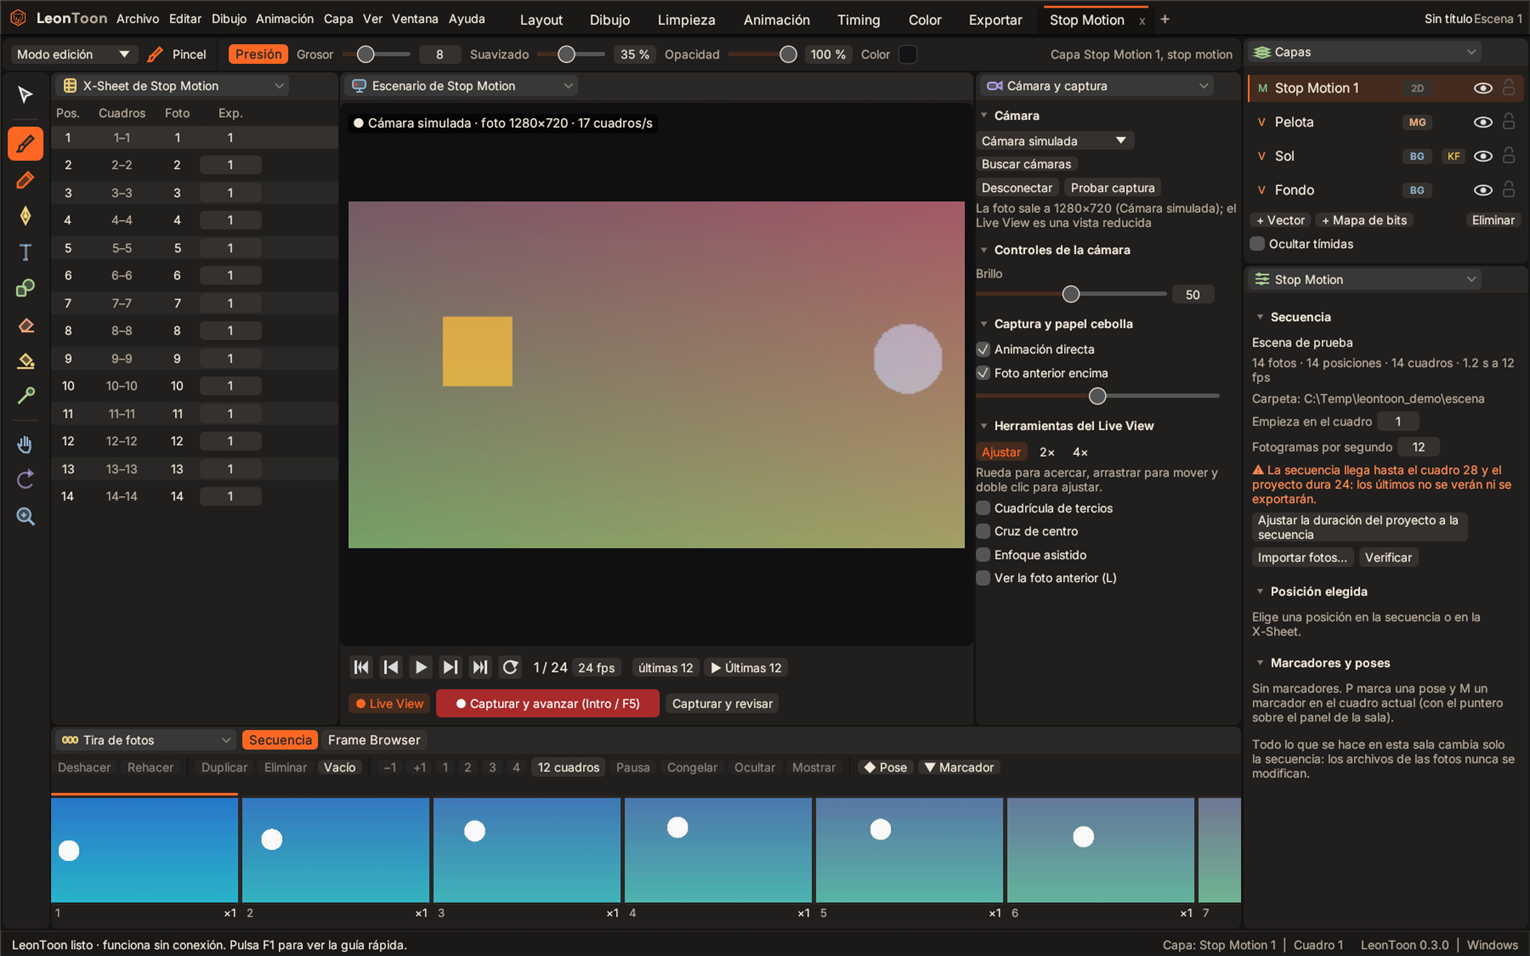
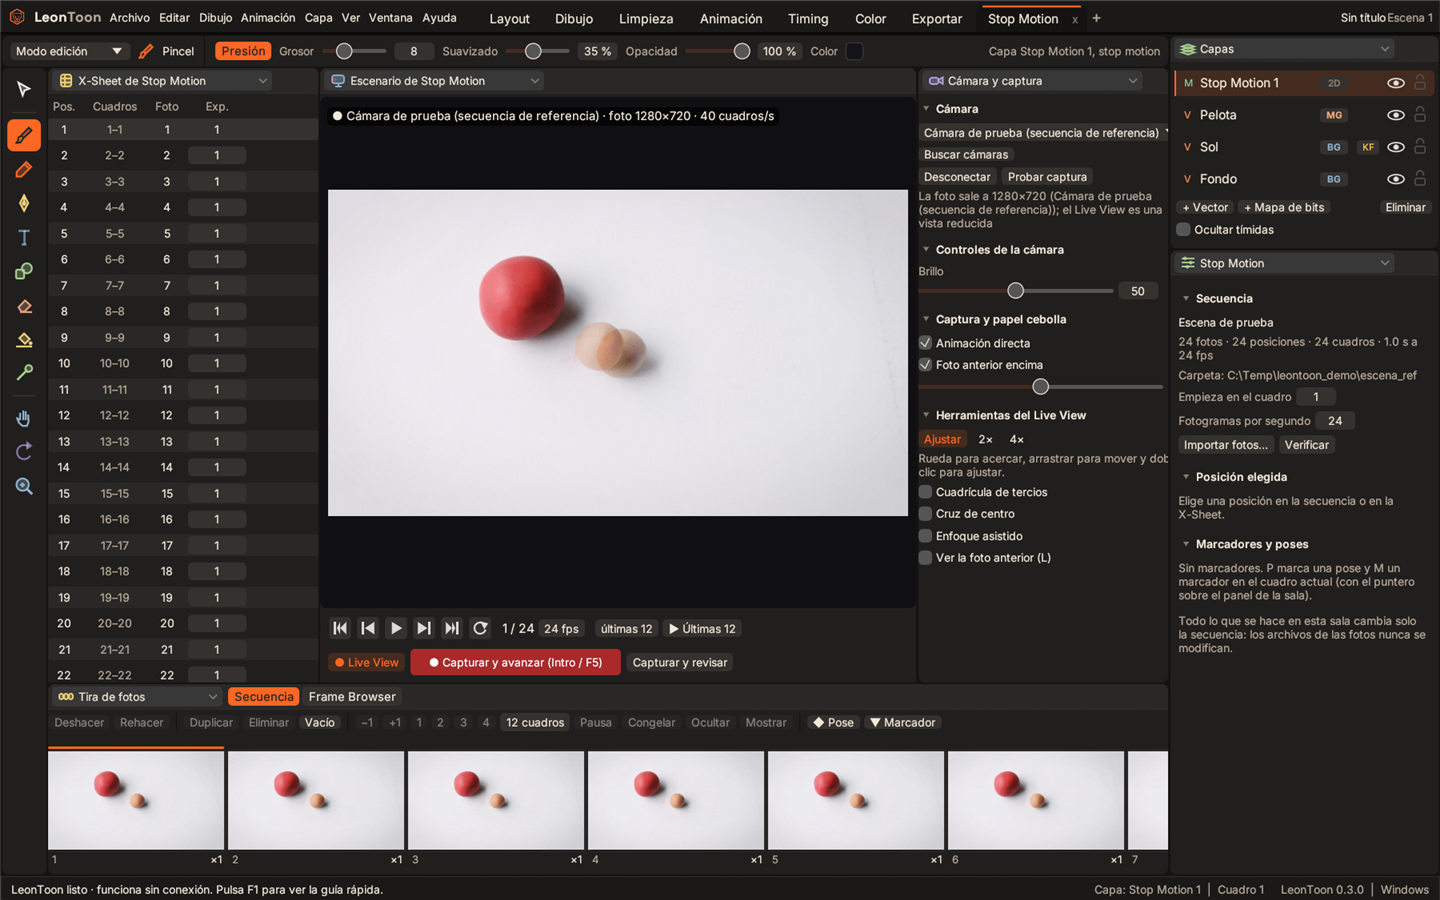
Stop Motion: camara de prueba con la secuencia de referencia (Refs #122) (#123)

diff --git a/app/src/capture/mock.rs b/app/src/capture/mock.rs
@@ -13,11 +13,13 @@ pub struct MockProvider {
     pub jpeg: bool,
     /// Si es false, el dispositivo no declara ningún control.
     pub with_controls: bool,
+    /// Carpeta con una secuencia de imágenes de referencia: la cámara las muestra en bucle (a 4 por segundo) en vez del degradado.
+    pub frames_dir: Option<std::path::PathBuf>,
 }
 
 impl Default for MockProvider {
     fn default() -> Self {
-        MockProvider { width: 1280, height: 720, fail_after: None, jpeg: true, with_controls: true }
+        MockProvider { width: 1280, height: 720, fail_after: None, jpeg: true, with_controls: true, frames_dir: None }
     }
 }
 
@@ -27,14 +29,21 @@ impl CaptureProvider for MockProvider {
     }
 
     fn list(&self) -> Result<Vec<DeviceInfo>, String> {
-        Ok(vec![DeviceInfo { id: "simulada:0".into(), name: "Cámara simulada".into(), provider: "simulada".into() }])
+        Ok(vec![DeviceInfo { id: "simulada:0".into(), name: if self.frames_dir.is_some() { "Cámara de prueba (secuencia de referencia)".into() } else { "Cámara simulada".into() }, provider: "simulada".into() }])
     }
 
     fn open(&self, id: &str) -> Result<Box<dyn CaptureDevice>, String> {
         if id != "simulada:0" {
             return Err(format!("no existe el dispositivo {id}"));
         }
-        Ok(Box::new(MockDevice { cfg: self.clone(), n: 0, brightness: 50 }))
+        let mut files: Vec<std::path::PathBuf> = self
+            .frames_dir
+            .as_ref()
+            .and_then(|d| std::fs::read_dir(d).ok())
+            .map(|rd| rd.filter_map(|e| e.ok()).map(|e| e.path()).filter(|p| p.extension().is_some_and(|x| x.eq_ignore_ascii_case("png") || x.eq_ignore_ascii_case("jpg"))).collect())
+            .unwrap_or_default();
+        files.sort();
+        Ok(Box::new(MockDevice { cfg: self.clone(), n: 0, brightness: 50, files, start: std::time::Instant::now() }))
     }
 }
 
@@ -42,6 +51,8 @@ struct MockDevice {
     cfg: MockProvider,
     n: u64,
     brightness: i64,
+    files: Vec<std::path::PathBuf>,
+    start: std::time::Instant,
 }
 
 impl CaptureDevice for MockDevice {
@@ -58,6 +69,20 @@ impl CaptureDevice for MockDevice {
         }
         std::thread::sleep(std::time::Duration::from_millis(8));
         self.n += 1;
+        if !self.files.is_empty() {
+            let i = (self.start.elapsed().as_millis() / 250) as usize % self.files.len();
+            let mut img = image::open(&self.files[i]).map_err(|e| e.to_string())?.to_rgb8();
+            let (w, h) = (img.width(), img.height());
+            let lum = (self.brightness as f32 / 50.0).clamp(0.0, 2.0);
+            if (lum - 1.0).abs() > 0.01 {
+                for p in img.pixels_mut() {
+                    for c in p.0.iter_mut() {
+                        *c = (*c as f32 * lum).min(255.0) as u8;
+                    }
+                }
+            }
+            return Ok(RawFrame { width: w, height: h, data: img.into_raw(), jpeg: false });
+        }
         let (w, h) = (self.cfg.width, self.cfg.height);
         let mut img = image::RgbImage::new(w, h);
         let lum = (self.brightness as f32 / 50.0).clamp(0.0, 2.0);

diff --git a/app/src/app.rs b/app/src/app.rs
@@ -593,8 +593,26 @@ impl LeonApp {
         // con LEONTOON_SMFALTA=1 la capa apunta a una carpeta que no existe (para ver el aviso).
         if let Ok(dir) = std::env::var("LEONTOON_STOPMOTION") {
             let dir = std::path::PathBuf::from(dir);
-            if let Ok(mut f) = crate::stopmotion::SeqFolder::create(&dir, "Escena de prueba", 12) {
-                for i in 0..14u32 {
+            // LEONTOON_SMFOTOS=<carpeta> usa esas imágenes (en orden) como fotos de la secuencia en vez de las generadas.
+            let refs: Vec<std::path::PathBuf> = std::env::var("LEONTOON_SMFOTOS")
+                .ok()
+                .and_then(|d| std::fs::read_dir(d).ok())
+                .map(|rd| {
+                    let mut v: Vec<_> = rd.filter_map(|e| e.ok()).map(|e| e.path()).filter(|p| p.extension().is_some_and(|x| x.eq_ignore_ascii_case("png") || x.eq_ignore_ascii_case("jpg"))).collect();
+                    v.sort();
+                    v
+                })
+                .unwrap_or_default();
+            if let Ok(mut f) = crate::stopmotion::SeqFolder::create(&dir, "Escena de prueba", if refs.is_empty() { 12 } else { 24 }) {
+                for p in refs.iter().take(24) {
+                    if let Ok(img) = image::open(p) {
+                        let mut bytes = Vec::new();
+                        if image::codecs::jpeg::JpegEncoder::new_with_quality(&mut bytes, 90).encode_image(&img.to_rgb8()).is_ok() {
+                            let _ = f.append_photo(&bytes, None);
+                        }
+                    }
+                }
+                for i in 0..(if refs.is_empty() { 14u32 } else { 0 }) {
                     // Una bola blanca que avanza de foto en foto sobre un fondo que cambia de color: se nota el movimiento.
                     let (cx, cy) = (30.0 + i as f32 * 20.0, 90.0 - (i as f32 * 0.5).sin() * 40.0);
                     let img = image::RgbImage::from_fn(320, 180, |x, y| {

diff --git a/app/src/capture/mod.rs b/app/src/capture/mod.rs
@@ -72,7 +72,15 @@ pub trait CaptureProvider: Send + Sync {
 /// Todos los proveedores disponibles. `LEONTOON_FAKECAM=1` usa solo la cámara simulada (para probar sin tocar ninguna cámara real).
 pub fn providers() -> Vec<Arc<dyn CaptureProvider>> {
     if std::env::var("LEONTOON_FAKECAM").is_ok() {
-        return vec![Arc::new(MockProvider::default())];
+        // LEONTOON_FAKECAM=<carpeta> (o la carpeta referencia/Sec_Ref_Stop_Motion, si existe) muestra esa secuencia como si fuera la cámara.
+        let v = std::env::var("LEONTOON_FAKECAM").unwrap_or_default();
+        let custom = std::path::PathBuf::from(&v);
+        let dir = if !v.is_empty() && v != "1" && custom.is_dir() {
+            Some(custom)
+        } else {
+            ["referencia/Sec_Ref_Stop_Motion", "../referencia/Sec_Ref_Stop_Motion"].into_iter().map(std::path::PathBuf::from).find(|p| p.is_dir())
+        };
+        return vec![Arc::new(MockProvider { frames_dir: dir, ..MockProvider::default() })];
     }
     vec![Arc::new(WebcamProvider)]
 }
